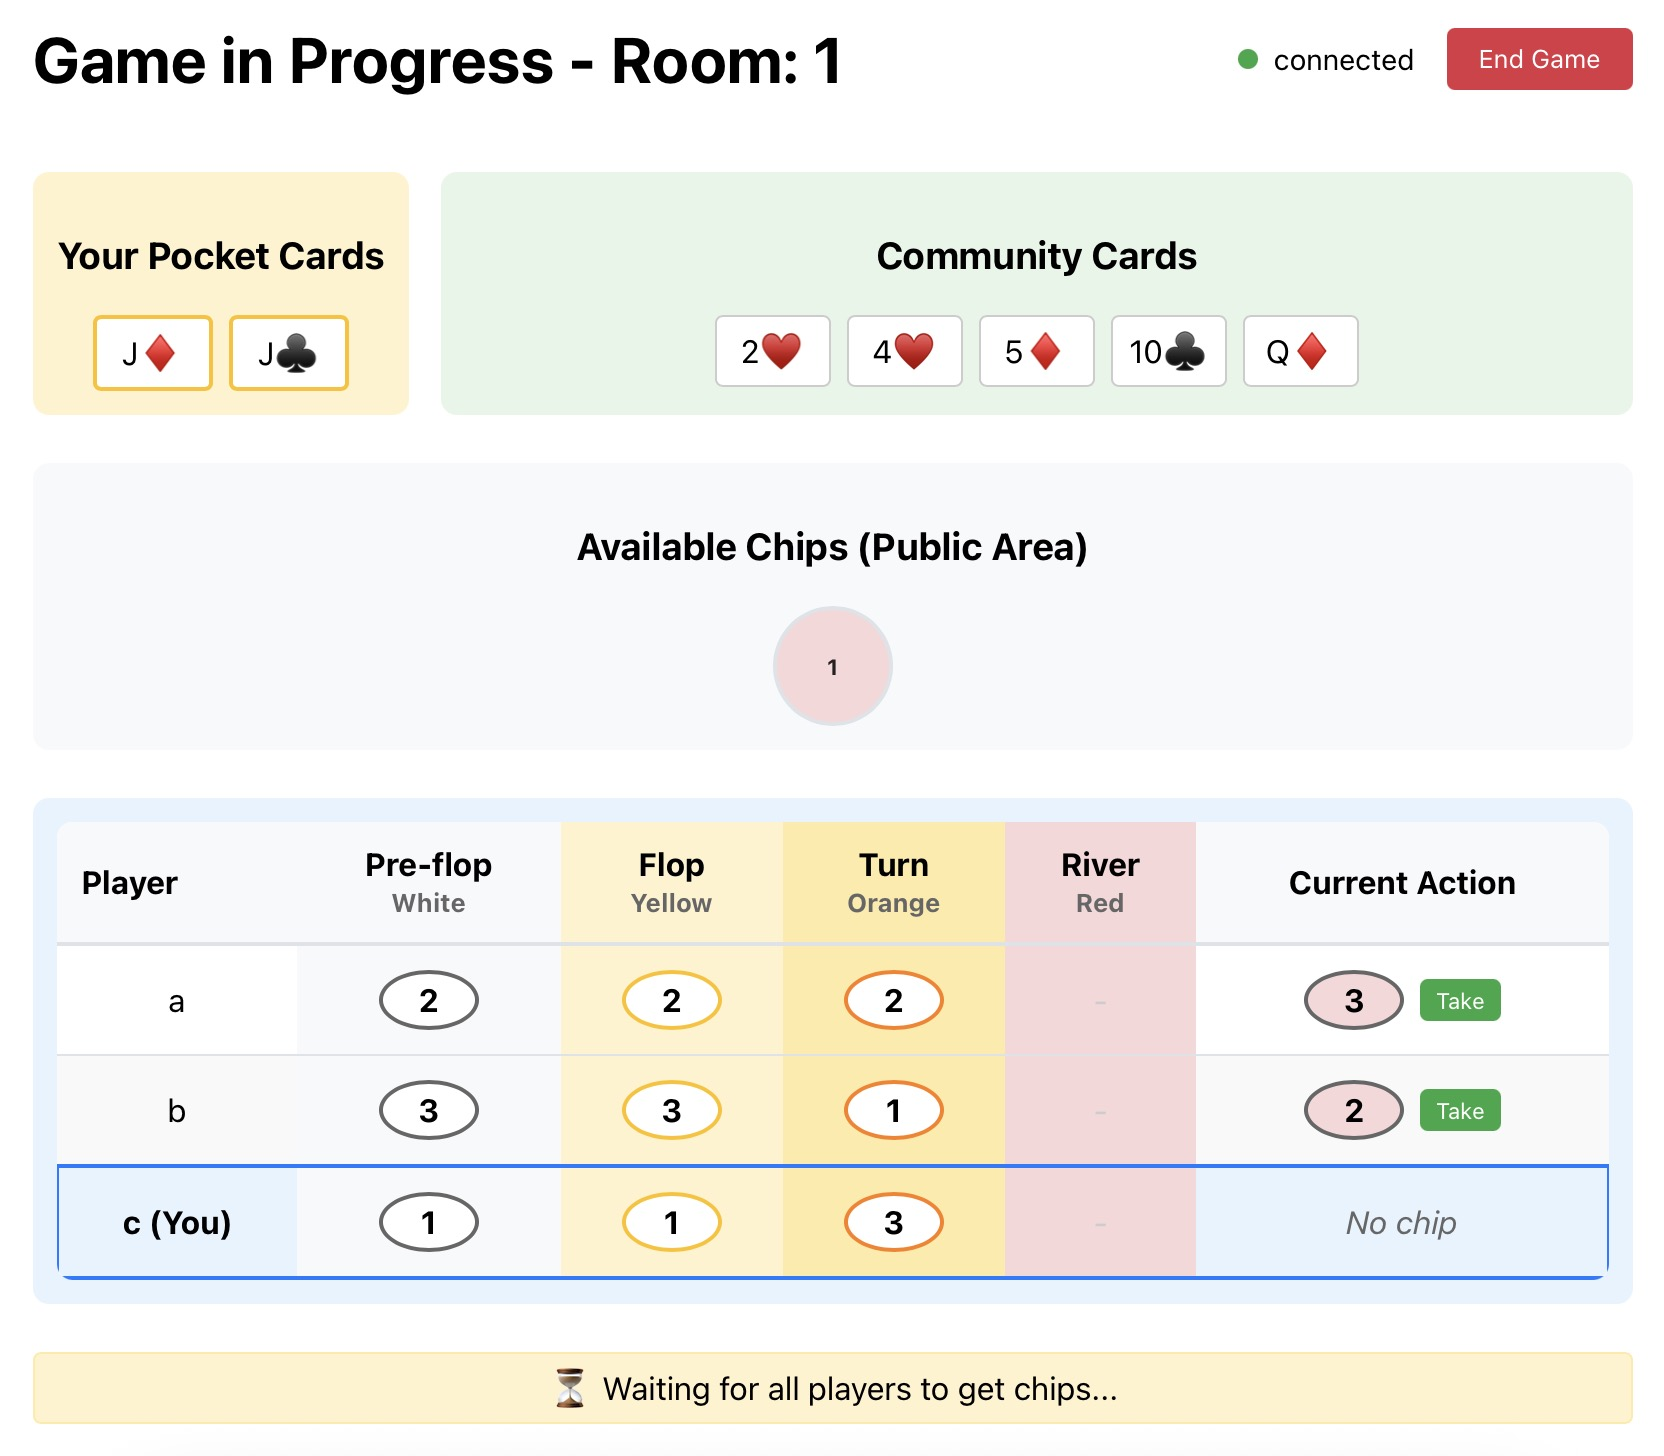
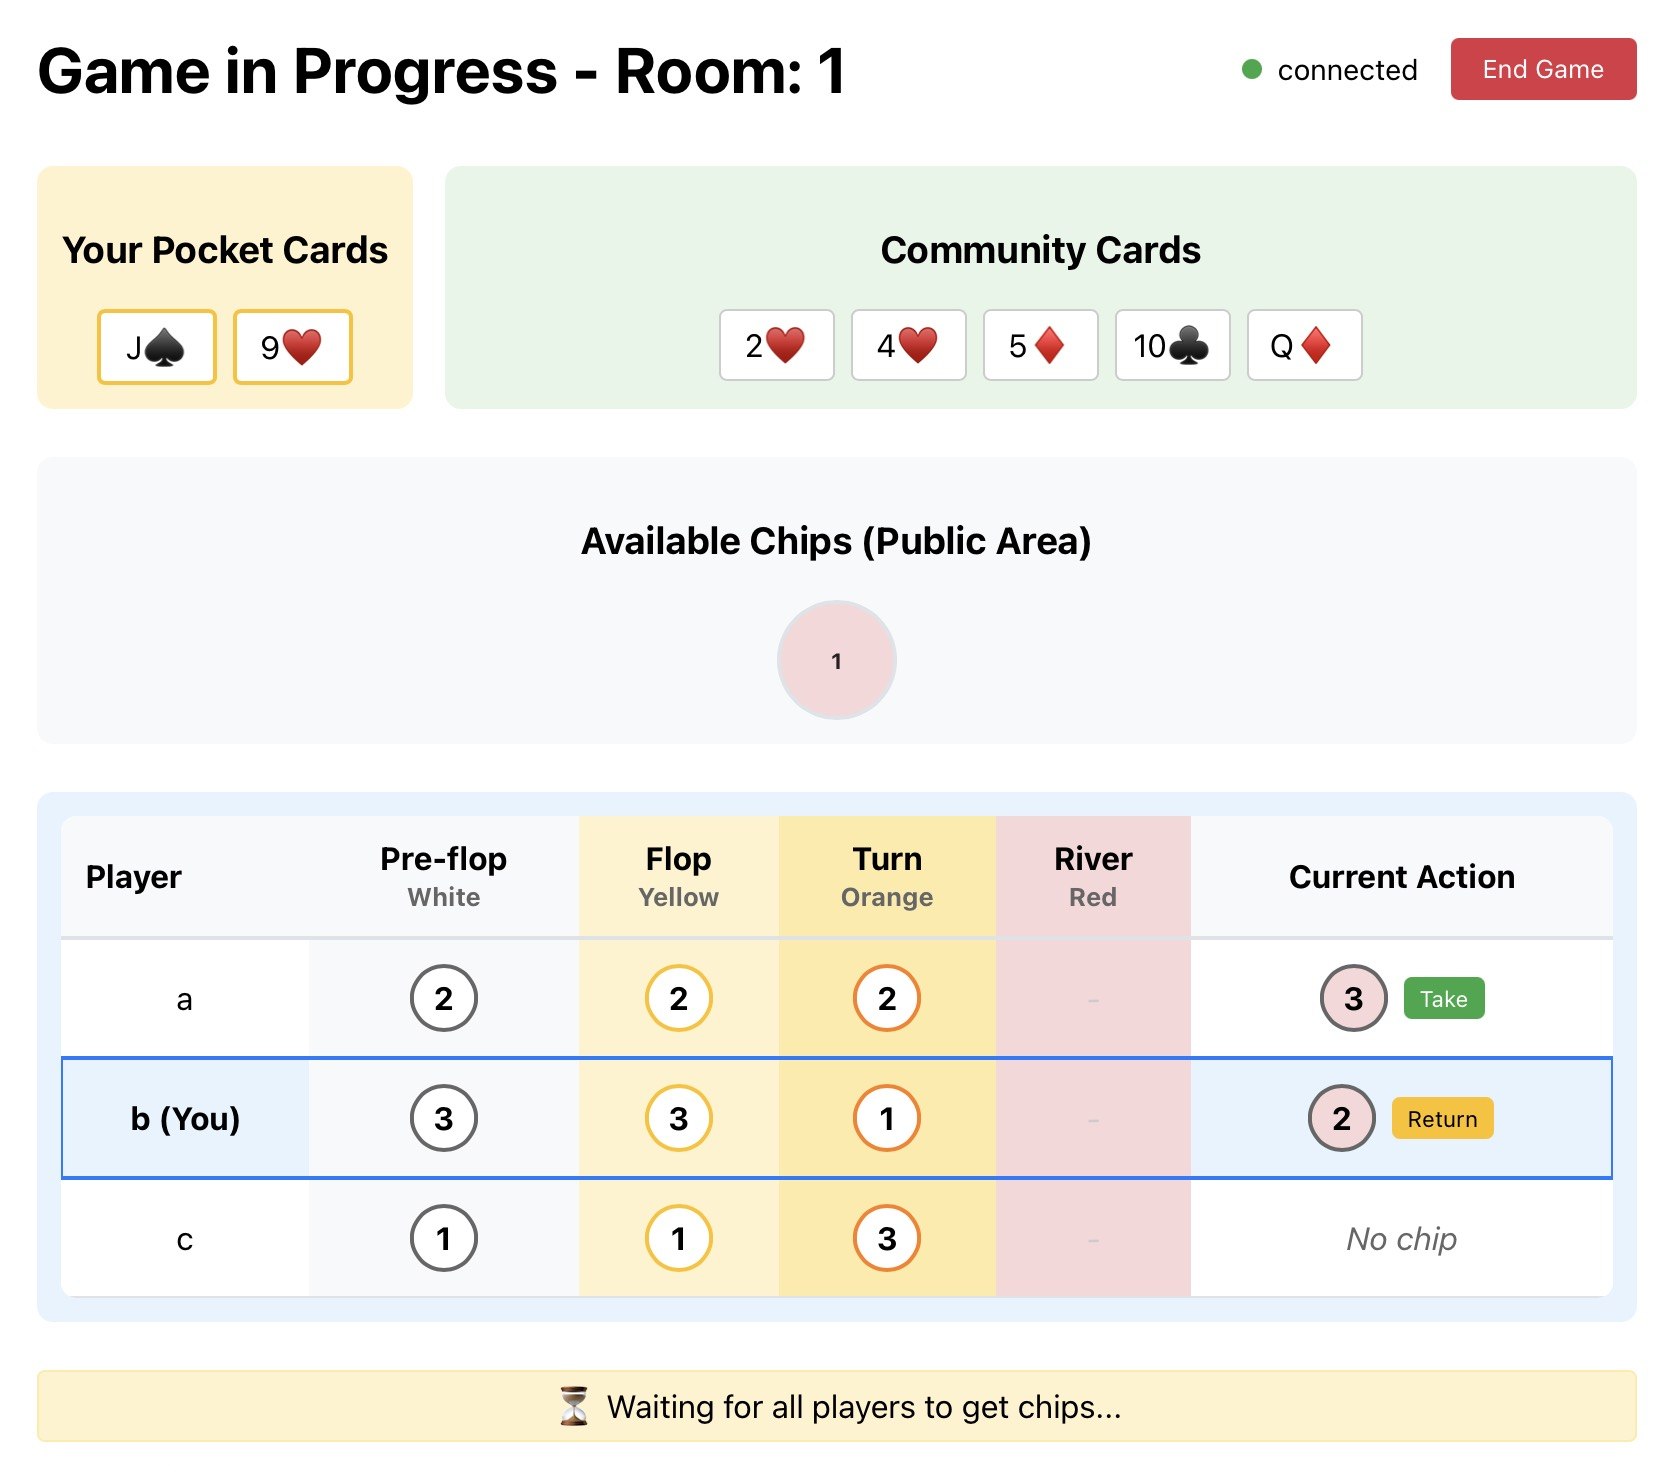
ui

diff --git a/frontend/src/components/Game.js b/frontend/src/components/Game.js
@@ -173,12 +173,12 @@ function Game() {
 
 
   return (
-    <div style={{ padding: '2rem', maxWidth: '800px', margin: '0 auto' }}>
+    <div style={{ padding: '1rem 2rem', maxWidth: '800px', margin: '0 auto' }}>
       <div style={{ 
         display: 'flex', 
         justifyContent: 'space-between', 
         alignItems: 'center',
-        marginBottom: '1rem'
+        marginBottom: '0.5rem'
       }}>
         <h1>Game in Progress - Room: {roomName}</h1>
         <div style={{ 
@@ -470,13 +470,15 @@ function Game() {
                         }}>
                           {playerHistory.white && shouldShowInHistory('white') ? (
                             <div style={{
-                              display: 'inline-block',
-                              padding: '0.25rem 0.5rem',
+                              display: 'inline-flex',
+                              alignItems: 'center',
+                              justifyContent: 'center',
                               backgroundColor: 'white',
                               border: '2px solid #666',
                               borderRadius: '50%',
                               fontWeight: 'bold',
-                              minWidth: '30px'
+                              width: '30px',
+                              height: '30px'
                             }}>
                               {playerHistory.white}
                             </div>
@@ -494,13 +496,15 @@ function Game() {
                         }}>
                           {playerHistory.yellow && shouldShowInHistory('yellow') ? (
                             <div style={{
-                              display: 'inline-block',
-                              padding: '0.25rem 0.5rem',
+                              display: 'inline-flex',
+                              alignItems: 'center',
+                              justifyContent: 'center',
                               backgroundColor: 'white',
                               border: '2px solid #ffc107',
                               borderRadius: '50%',
                               fontWeight: 'bold',
-                              minWidth: '30px'
+                              width: '30px',
+                              height: '30px'
                             }}>
                               {playerHistory.yellow}
                             </div>
@@ -518,13 +522,15 @@ function Game() {
                         }}>
                           {playerHistory.orange && shouldShowInHistory('orange') ? (
                             <div style={{
-                              display: 'inline-block',
-                              padding: '0.25rem 0.5rem',
+                              display: 'inline-flex',
+                              alignItems: 'center',
+                              justifyContent: 'center',
                               backgroundColor: 'white',
                               border: '2px solid #fd7e14',
                               borderRadius: '50%',
                               fontWeight: 'bold',
-                              minWidth: '30px'
+                              width: '30px',
+                              height: '30px'
                             }}>
                               {playerHistory.orange}
                             </div>
@@ -542,13 +548,15 @@ function Game() {
                         }}>
                           {playerHistory.red && shouldShowInHistory('red') ? (
                             <div style={{
-                              display: 'inline-block',
-                              padding: '0.25rem 0.5rem',
+                              display: 'inline-flex',
+                              alignItems: 'center',
+                              justifyContent: 'center',
                               backgroundColor: 'white',
                               border: '2px solid #dc3545',
                               borderRadius: '50%',
                               fontWeight: 'bold',
-                              minWidth: '30px'
+                              width: '30px',
+                              height: '30px'
                             }}>
                               {playerHistory.red}
                             </div>
@@ -566,7 +574,9 @@ function Game() {
                           {currentChip ? (
                             <div style={{ display: 'flex', alignItems: 'center', justifyContent: 'center', gap: '0.5rem' }}>
                               <div style={{
-                                padding: '0.25rem 0.5rem',
+                                display: 'inline-flex',
+                                alignItems: 'center',
+                                justifyContent: 'center',
                                 backgroundColor: roomData.poker_game.current_chip_color === 'white' ? '#f8f9fa' :
                                                roomData.poker_game.current_chip_color === 'yellow' ? '#fff3cd' :
                                                roomData.poker_game.current_chip_color === 'orange' ? '#ffeaa7' :
@@ -574,7 +584,8 @@ function Game() {
                                 border: '2px solid #666',
                                 borderRadius: '50%',
                                 fontWeight: 'bold',
-                                minWidth: '30px'
+                                width: '30px',
+                                height: '30px'
                               }}>
                                 {currentChip}
                               </div>

diff --git a/prompt.md b/prompt.md
@@ -164,4 +164,10 @@ in the bidding history table, we don't need to show the chips of the current rou
 
 slightly decrease the spacing between the room name and the game area
 
+make the chips in the bidding table more round
+
+now further decrease vertical spacing around the header
+
+more
+
 ========
